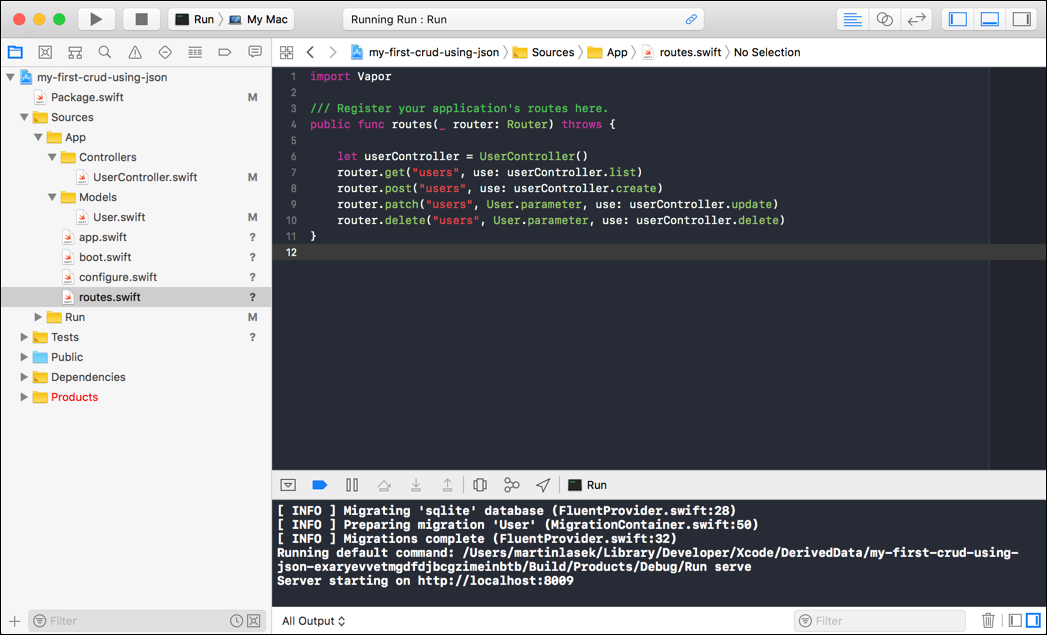
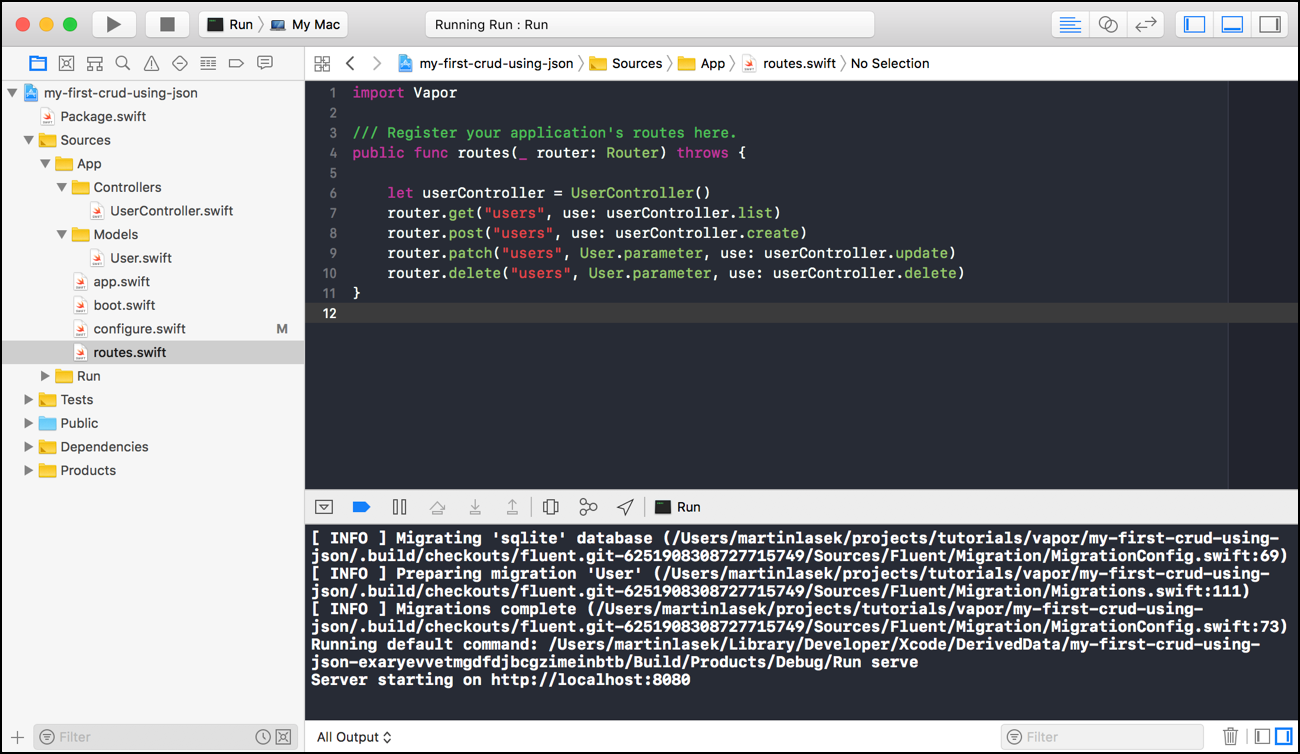
updated port configuration

Changed region(s): [[0.0, 0.0, 1.0, 1.0], [0.9475, 0.3591, 1.0, 0.4488]]

diff --git a/Sources/App/configure.swift b/Sources/App/configure.swift
@@ -13,9 +13,6 @@ public func configure(
     try routes(router)
     services.register(router, as: Router.self)
 
-    let myService = NIOServerConfig.default(port: 8009)
-    services.register(myService)
-
     try services.register(FluentSQLiteProvider())
 
     var databases = DatabasesConfig()
